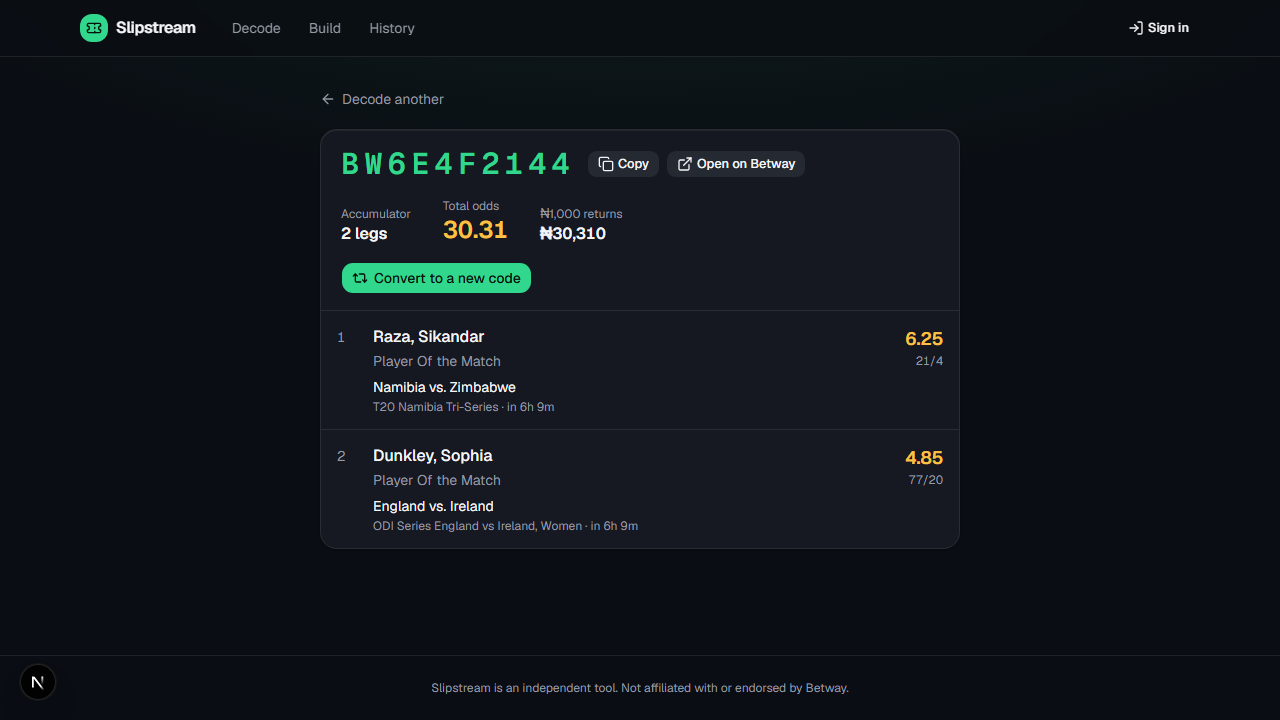
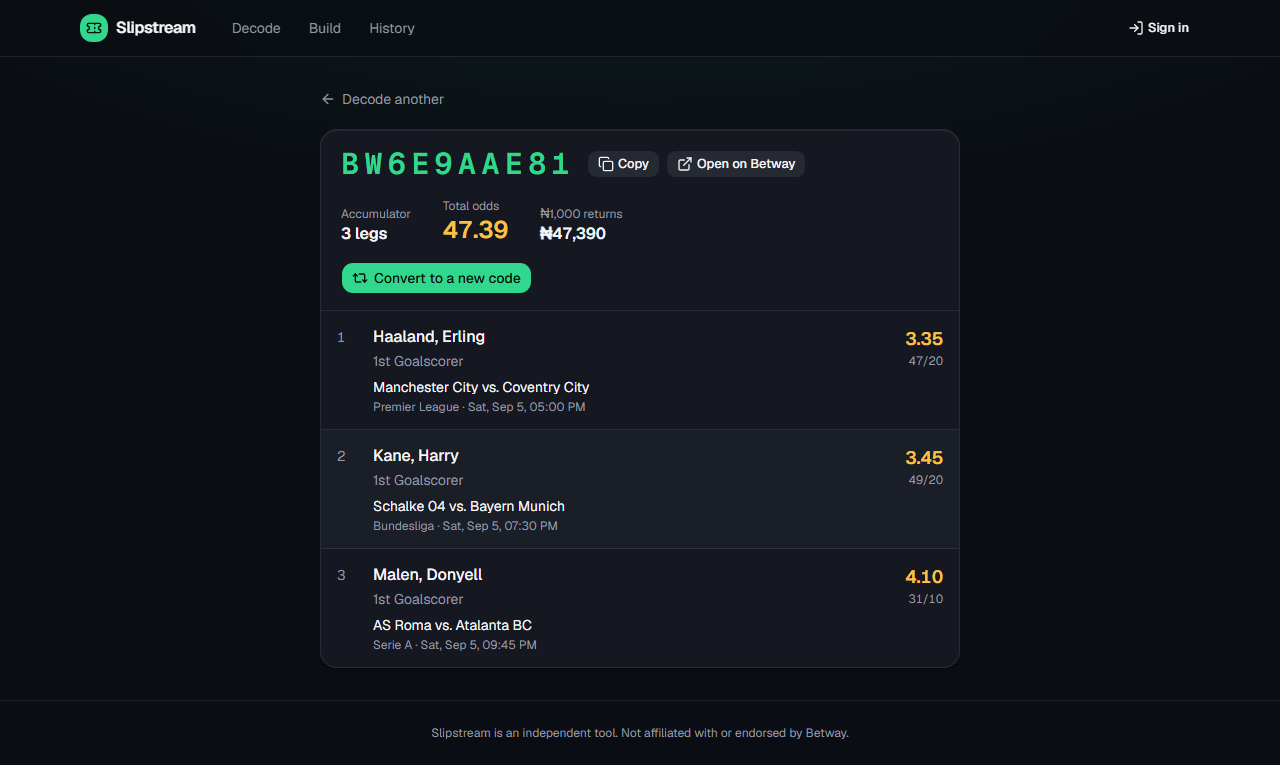
fix(mobile): declare INTERNET permission in release builds
Every release APK shipped so far could not open a socket. The Flutter template
declares android.permission.INTERNET only in src/debug/ and src/profile/ — put
there for hot reload — and never in src/main/, so debug builds have network
access and release builds do not. Release is the one that goes to testers.

The failure is silent and misleading: the app is not refused at the HTTP layer,
its process never joins gid 3003 (AID_INET), so the kernel rejects every socket
outright. Requests fail instantly and the app reports "could not reach the
server", which is indistinguishable from the API being down. A tester hit this
on first install and traced it via `aapt2 dump permissions` and the process
group list; confirmed here by reading the manifest out of the shipped APK.

Two changes:
- the permission is injected into the generated main manifest, and the step
  fails if the edit does not take;
- the *compiled* APK is then checked with aapt2 before upload. Asserting on the
  source manifest alone would not catch a manifest-merger or variant problem,
  and this is the artefact testers actually install.

This is a direct consequence of not committing the android/ tree: a file that
is generated is a file nobody reviews. The generation step now owns the
requirement explicitly.

Claude-Session: https://claude.ai/code/session_019cyQFwjYma82qHA9QsfwM4

diff --git a/docs/LOOM-SCRIPT.md b/docs/LOOM-SCRIPT.md
@@ -1,0 +1,182 @@
+# Loom walkthrough — 5 minutes
+
+Screen recording with voiceover. `[SCREEN]` is what to show, `[SAY]` is what to
+read out. Narration is written to be spoken, not read — short sentences, no
+jargon that is not immediately explained.
+
+## Before you hit record
+
+Open these tabs, in this order, so you never hunt for one on camera:
+
+1. `https://betway-slipstream-web.vercel.app`
+2. `https://github.com/annnnnet/betway-slipstream` — scrolled to the **Architecture** section of the README
+3. `https://betway-slipstream-production.up.railway.app/docs`
+4. Firebase App Distribution → the release page
+5. VS Code on `apps/api/src/betway/betway.client.ts`
+
+Also:
+
+- Close anything with credentials on screen (Railway/Vercel/Supabase dashboards).
+- Have these codes ready to paste. Verified working today — re-check one before
+  recording, they rotate weekly:
+  `BW6E9AA915` (5 legs, odds 114.52) · `BW6E87AB26` (3 legs, odds 5.54)
+- Zoom the browser to ~125% so text is readable in the recording.
+
+---
+
+## 0:00 – 0:25 · What this is
+
+**[SCREEN]** The landing page.
+
+**[SAY]**
+> This is Slipstream. It works with Betway Nigeria booking codes.
+> A booking code is a short string that stands for a bet — people share them in
+> group chats, and you normally cannot see what is inside one until you load it
+> on Betway.
+> This does four things: decode a code, build a new one, convert an existing
+> one, and verify that the codes it produces are really the bet you asked for.
+
+---
+
+## 0:25 – 1:15 · Decode
+
+**[SCREEN]** Paste `BW6E9AA915`, click Decode. Let the slip render. Scroll it slowly.
+
+**[SAY]**
+> I paste a code and it resolves against Betway's live API.
+> You get every leg: the selection, the market it came from, the match, the
+> kickoff time, and the price in both decimal and fractional form.
+> The total odds and what a thousand naira would return are at the top.
+> Everything here is live — these are real prices, right now.
+
+**[SCREEN]** Point at a greyed-out leg if one is present. If not, skip this line.
+
+**[SAY]**
+> If a leg has been settled or suspended, it is dimmed and it says which of the
+> three — the selection, the market, or the match — is the one that died.
+
+---
+
+## 1:15 – 2:00 · Build
+
+**[SCREEN]** Build tab → Football → Premier League → pick a fixture → tap 2–3 prices → Generate booking code.
+
+**[SAY]**
+> The builder goes the other way. Sport, league, match, and then Betway's live
+> markets for that match — there are over a hundred per football game.
+> I pick a few, the slip on the right totals them up, and I generate a code.
+
+**[SCREEN]** The new code appears with the verification panel below it.
+
+**[SAY]**
+> And that is a real Betway booking code. I can open it on Betway right now.
+
+---
+
+## 2:00 – 3:00 · Convert and verify — the important part
+
+**[SCREEN]** Go to the decoded slip from earlier, click **Convert to a new code**.
+Wait for the verification panel. Scroll to the two fingerprints.
+
+> **Convert one of Betway's featured codes here, not one you built yourself.**
+> Converting a code you just minted returns *the same code* — you submitted that
+> exact ordered set, so the deterministic encoder maps straight back to it. It is
+> correct, it verifies, and the UI explains it — but on camera you would have to
+> justify why nothing changed. Betway's own codes store their legs in a different
+> order from the one the decode returns, so re-booking them mints a visibly new
+> code with matching fingerprints, which is the point you are making.
+>
+> Verified today: `BW6E87AE8D`, `BW6E9A96F2` and `BW6E9A9CD8` all converted to
+> new codes. Some featured codes fail to convert because their events have
+> already started — try yours right before recording.
+
+**[SAY]**
+> Convert takes an existing slip and re-books the same selections as a new code.
+> The part I care about most is underneath.
+> I do not just tell you the code worked. After generating it, the server loads
+> that code back off Betway and compares what came back against what I asked
+> for — and it shows you the comparison.
+> These two lines are the fingerprints: the sorted list of outcome IDs from the
+> bet I submitted, and from the slip Betway returns. They match, so the bet
+> survived the round trip.
+> If a leg were missing, it would be listed here and this would say failed.
+> Price changes are shown too, but they do not fail the check — odds move
+> between the two calls as a matter of course.
+
+**[SCREEN]** Click **Open on Betway** → their site loads the slip.
+
+**[SAY]**
+> And here it is on Betway's own site, from the code we generated.
+
+---
+
+## 3:00 – 3:50 · Architecture
+
+**[SCREEN]** GitHub README → the first Mermaid diagram.
+
+**[SAY]**
+> The architecture is a Next.js web app and a Flutter app, both talking to one
+> NestJS API, which is the only thing that talks to Betway.
+> Postgres holds a short-lived cache and a log of every code. It is deliberately
+> not critical — if the database is down, decoding and converting still work.
+> Betway publishes no API documentation, so I read their production JavaScript
+> bundle to find the endpoints. They turn out to be completely public — no key,
+> no session, no bot protection.
+
+**[SCREEN]** Scroll to the second Mermaid diagram (the create-and-verify sequence).
+
+**[SAY]**
+> This is the encode path. The important line is in the middle: never trust the
+> success response — load the code back and diff it.
+> The Flutter app talks to my API rather than to Betway, so if Betway changes
+> something I fix it with a deploy instead of an app store release.
+
+---
+
+## 3:50 – 4:35 · The trickiest decision
+
+**[SCREEN]** README → "Four things the live tests taught us", the determinism block.
+
+**[SAY]**
+> The trickiest thing I found was this.
+> Betway's encoder is deterministic on the *ordered* list of selections. Send
+> the same selections twice and you get the same code back. Send them in a
+> different order and you get a different code.
+> That breaks the obvious way to verify a conversion. You cannot compare code
+> strings — the same bet legitimately has several valid codes, and sometimes
+> converting returns the exact code you started with.
+> So identity is not the code. It is the sorted set of outcome IDs — the
+> fingerprint you saw earlier. Order-independent, because the order you picked
+> your legs in is not part of the bet.
+> That one finding shaped the whole verification design, and it came out of a
+> test I wrote against production, not from reading anything.
+
+---
+
+## 4:35 – 5:00 · Flutter, and wrap up
+
+**[SCREEN]** Firebase App Distribution release page. Then the API `/docs` page briefly.
+
+**[SAY]**
+> The Flutter app is a one-screen slip view, built and distributed by GitHub
+> Actions to Firebase App Distribution — no Android toolchain on my machine.
+> The iOS path is written up in the README; the short version is that the build
+> is the easy part and Apple's signing and per-device provisioning is not.
+> The API is documented with OpenAPI, there are around eighty tests including a
+> live suite that checks Betway's contract has not changed, and everything is
+> in the repo.
+> Thanks for watching.
+
+---
+
+## If you run long
+
+Cut in this order — each is the least load-bearing thing remaining:
+
+1. The greyed-out-leg line at 1:15
+2. The `/docs` shot at the end
+3. The second Mermaid diagram at 3:35 — the first one carries the architecture
+
+Do **not** cut the fingerprint explanation at 2:00 or the determinism finding at
+3:50. The brief asks for architecture and the trickiest technical decision, and
+those two sections are the answer to both.
